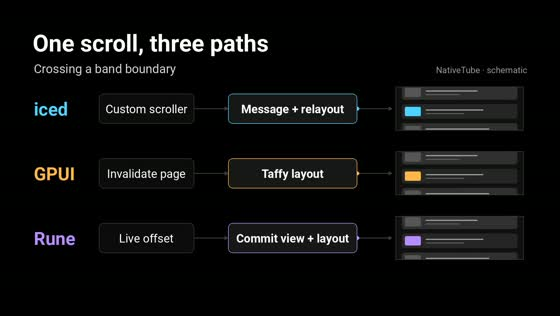
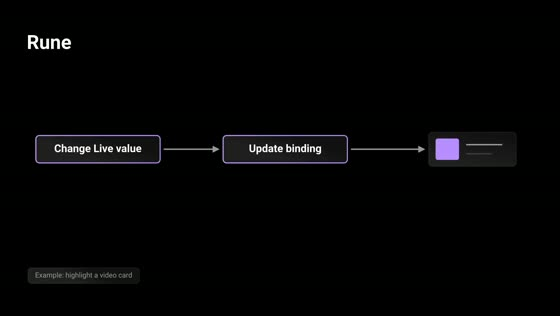
Explain native UI updates with a Manim animation

diff --git a/tools/viz/obsidian.py b/tools/viz/obsidian.py
@@ -322,86 +322,6 @@ def demo():
     return {"feature captures": [str(shot[0].relative_to(data.ROOT)) for shot in shots]}
 
 
-def framework_updates():
-    """Animate a UI update and two portions of an illustrative scroll."""
-    updates = (
-        ("Widget message", "Update, then view"),
-        ("Entity update", "View invalidation"),
-        ("Live value", "Bound property"),
-    )
-    paths = (
-        ("iced", "Custom scroller", "Translate cards", "Message + relayout"),
-        ("gpui", "Invalidate page", "Taffy layout", "Taffy layout"),
-        ("rune", "Live offset", "Translate cards", "Commit view + layout"),
-    )
-    update_time, scroll_time = 4.25, 9.75
-
-    def frame(t, _cache):
-        scrolling = t >= update_time
-        scroll_at = t - update_time
-        crosses_band = scroll_at >= 4.8
-        if scrolling:
-            progress = ease_out((scroll_at - (5.15 if crosses_band else .8)) / 1.9)
-            offset = round(44 + 83 * progress if crosses_band else 44 * progress)
-            heading = "One scroll, three paths"
-            phase = "Crossing a band boundary" if crosses_band else "Scrolling within a band"
-        else:
-            progress = ease_out((t - .55) / 2.2)
-            offset = 0
-            heading = "From state to screen"
-            phase = "Example: highlight a thumbnail"
-        image = Image.new("RGB", SIZE, "black")
-        draw = ImageDraw.Draw(image)
-        draw.text((112, 92), heading, font=face(80, True), fill=WHITE)
-        draw.text((116, 205), phase, font=face(42), fill="#d6d6d6")
-        draw.text((1808, 218), "NativeTube · schematic", font=face(30), fill=SECONDARY, anchor="ra")
-
-        for index, ((app, scroller, within, across), (event, update)) in enumerate(zip(paths, updates, strict=True)):
-            y = 371 + index * 221
-            color = data.APP_COLORS[app]
-            draw.text((116, y), data.NAMES[app], font=face(62, True), fill=color, anchor="lm")
-            for edge, (start, end) in enumerate(((665, 782), (1224, 1344))):
-                draw.line((start, y, end, y), fill=RING, width=3)
-                draw.polygon(((end, y), (end - 12, y - 7), (end - 12, y + 7)), fill=RING)
-                pulse = 2 * progress - edge
-                if 0 < pulse < 1:
-                    draw.circle((start + (end - start) * pulse, y), 6, fill=color)
-
-            entry = scroller if scrolling else event
-            stage = (across if crosses_band else within) if scrolling else update
-            highlight = (app == "gpui" or crosses_band) if scrolling else progress > .5
-            for left, right, text, emphatic in (
-                (339, 665, entry, False),
-                (782, 1224, stage, highlight),
-            ):
-                draw.rounded_rectangle((left, y - 51, right, y + 51), radius=16,
-                                       fill="#171717" if emphatic else "#0c0c0c",
-                                       outline=color if emphatic else RING, width=2)
-                draw.text(((left + right) / 2, y), text, font=face(40, emphatic),
-                          fill=WHITE, anchor="mm")
-
-            # Clip the same moving stack to each viewport. The schematic uses equal motion.
-            tile = Image.new("RGB", (440, 150), "#101010")
-            cards = ImageDraw.Draw(tile)
-            for card in range(5):
-                top = 16 + 65 * card - offset
-                cards.rounded_rectangle((22, top, 417, top + 49), radius=8,
-                                        fill="#252525" if card % 2 == 0 else "#303030")
-                accented = card == (2 if scrolling else 1) and (scrolling or progress > .86)
-                cards.rounded_rectangle((32, top + 9, 86, top + 40), radius=4,
-                                        fill=color if accented else "#565656")
-                cards.line((104, top + 19, 260 + 20 * card, top + 19), fill="#a0a0a0", width=4)
-                cards.line((104, top + 32, 199 + 18 * card, top + 32), fill="#666666", width=3)
-            image.paste(tile, (1356, y - 75))
-            draw.rectangle((1356, y - 75, 1795, y + 74), outline=RING, width=2)
-
-        return image
-
-    encode_frames(data.OUT / "FrameworkUpdates.mp4", update_time + scroll_time, frame)
-    return {"NativeTube scroll paths": ["apps/iced/src/scroller.rs", "apps/gpui/NOTES.md",
-                                       "apps/rune/src/scroller.rs", "apps/rune/src/view.rs"]}
-
-
 def scroll_clip():
     """Keep the recorder's wall-clock timing for the continuous touchpad gesture."""
     WORK.mkdir(parents=True, exist_ok=True)

diff --git a/tools/viz/scenes.py b/tools/viz/scenes.py
@@ -1141,3 +1141,80 @@ class Hiccups(Page):
 
 
 # The runner passes stills.py to Manim separately to keep static and moving output independent.
+
+
+class FrameworkUpdates(Page):
+    """Use the same thumbnail to compare how a small state change reaches the screen."""
+
+    def construct(self):
+        beats = (
+            ("React", MINT, ("Set state", "Run component", "Commit changes")),
+            ("iced", SKY, ("Widget message", "Update state", "Build view")),
+            ("GPUI", GOLD, ("Change entity", "Notify views", "Render view")),
+            ("Rune", LILAC, ("Change Live value", "Update binding")),
+        )
+        self.foot("Example: highlight a video card")
+        self.title("Click a video card")
+        example = self.card(0, .25).scale(1.55)
+        self.play(FadeIn(example), run_time=.25)
+        self.play(example[1].animate.set_fill(MINT, opacity=1), run_time=.35)
+        self.wait(.5)
+        self.clear_stage(run_time=.2)
+
+        for framework, color, steps in beats:
+            self.title(framework)
+            xs = (-5.2, -1.65, 1.75) if len(steps) == 3 else (-5.2, .15)
+            stages = VGroup(*(chip(step, x, .25, 2.95 if len(steps) == 3 else 3.55)
+                              for x, step in zip(xs, steps, strict=True)))
+            card = self.card(5.5, .25)
+            nodes = [*stages, card]
+            links = VGroup(*(right_arrow(a.get_right()[0] + .10, .25, b.get_left()[0] - .10, .25)
+                             for a, b in zip(nodes, nodes[1:])))
+            self.add(*links, *stages, card)
+            for stage, link in zip(stages, links, strict=True):
+                signal = Dot(link.get_start(), radius=.065, color=color)
+                self.add(signal)
+                self.play(MoveAlongPath(signal, link), stage[0].animate.set_stroke(color, width=3), run_time=.4)
+                self.remove(signal)
+            self.play(card[1].animate.set_fill(color, opacity=1), run_time=.45)
+            self.wait(1.5)
+            self.clear_stage(run_time=.25)
+
+        self.title("Now scroll the feed")
+        labels = ("Move cards", "Lay out page", "Move cards")
+        rows = VGroup()
+        moving = []
+        operations = []
+        for index, (app, action) in enumerate(zip(APPS, labels, strict=True)):
+            y = 1.62 - 1.65 * index
+            color = COLOR[app]
+            cards = VGroup(self.card(2.25, y, color), self.card(5.35, y))
+            operation = chip(action, -2.0, y, 2.8, color)
+            rows.add(label(NAME[app], -6.65, y, VALUE, color, bold=True), operation,
+                     right_arrow(-.48, y, .87, y), cards)
+            moving.append(cards)
+            operations.append(operation)
+        self.play(FadeIn(rows), run_time=.4)
+        self.play(*(cards.animate.shift(.44 * UP) for cards in moving), run_time=.9)
+        self.wait(1)
+        self.title("When the card group changes")
+        self.play(FadeOut(operations[0]), FadeOut(operations[2]), run_time=.2)
+        self.play(
+            FadeIn(chip("Rebuild group", -2.0, 1.62, 2.8, SKY)),
+            FadeIn(chip("Commit new view", -2.0, -1.68, 2.8, LILAC)),
+            moving[0][1][1].animate.set_fill(SKY, opacity=1),
+            moving[2][1][1].animate.set_fill(LILAC, opacity=1),
+            run_time=.4,
+        )
+        self.foot("NativeTube's scroll paths")
+        self.wait(1.5)
+
+    @staticmethod
+    def card(x, y, accent=RING):
+        return VGroup(
+            box(x, y, 2.5, .97),
+            RoundedRectangle(corner_radius=.06, width=.67, height=.61, stroke_width=0,
+                             fill_color=accent, fill_opacity=1).move_to(point(x - .72, y)),
+            line(x - .18, y + .13, x + .85, y + .13, MUTED, 4),
+            line(x - .18, y - .13, x + .54, y - .13, RING, 4),
+        )

diff --git a/tools/viz/render.py b/tools/viz/render.py
@@ -30,6 +30,7 @@ EXPLAINERS = {
     "ScrollCost": (6, 9, 26, 37),
     "Memory": (5, 13, 23, 41),
     "Hiccups": (6, 10, 28),
+    "FrameworkUpdates": (),
 }
 STILLS = (
     "FramePathStill", "EGLStill", "InstructionsStill", "PerCoreStill",
@@ -123,6 +124,8 @@ def verify(recordings=None, *, wanted=None):
     if recordings and "SideBySideFly" in recordings:
         names.append("SideBySideFly")
     for name in PUBLICATION_VIDEOS:
+        if name in EXPLAINERS:
+            continue
         if (data.OUT / f"{name}.mp4").is_file() or wanted is not None and name in wanted:
             names.append(name)
     for name in names:
@@ -373,6 +376,10 @@ def main():
         scene_set("stills", stills, "1600,900", still=True, fly=fly)
     tour_receipts = tours.main(fly, wanted)
     references = source_map(fly, tour_receipts)
+    references["FrameworkUpdates"] = {
+        "NativeTube update and scroll paths": ["apps/iced/src/scroller.rs", "apps/gpui/NOTES.md",
+                                              "apps/rune/src/scroller.rs", "apps/rune/src/view.rs"],
+    }
     if "Cover" in wanted:
         obsidian.cover()
     if (stale := data.OUT / "Cover.png").is_file():
@@ -380,7 +387,6 @@ def main():
     existing = data.read(".cache/viz/out/sources.json") if (data.OUT / "sources.json").is_file() else {}
     for name, build in {
         "Demo": obsidian.demo,
-        "FrameworkUpdates": obsidian.framework_updates,
         "FirstFrameRealTime": tours.first_frame_clip,
         "ScrollRealTime": obsidian.scroll_clip,
     }.items():

diff --git a/tools/viz/audit.py b/tools/viz/audit.py
@@ -54,7 +54,7 @@ def create_sheets(video, destination):
     print(f"{video.stem}: {count} sampled frames", flush=True)
 
 
-EXPLAINERS = ("FramePath", "FirstFrame", "ScrollCost", "Memory", "Hiccups")
+EXPLAINERS = ("FramePath", "FirstFrame", "ScrollCost", "Memory", "Hiccups", "FrameworkUpdates")
 # Background points along the outer margin. The grid has a narrower border than the cards.
 MARGIN_POINTS = ((20, 20), (1900, 20), (20, 1060), (1900, 1060), (960, 12), (960, 1068), (12, 540), (1908, 540))
 GRID_POINTS = ((8, 8), (1911, 8), (8, 1071), (1911, 1071), (8, 300), (1911, 820))

diff --git a/docs/blog/x-article.md b/docs/blog/x-article.md
@@ -22,13 +22,15 @@ All three use the same Rust core for networking, image caching, scroll physics, 
 
 ### How each framework updates the UI
 
-[MEDIA: .cache/viz/out/FrameworkUpdates.mp4 — How state reaches the screen in each framework, followed by an animated diagram of what changes during a NativeTube scroll.]
+[MEDIA: .cache/viz/out/FrameworkUpdates.mp4 — One card changes color. Follow that update through React, iced, GPUI, and Rune, then see which parts of NativeTube update during a scroll.]
 
-**iced** follows an Elm-style loop. Widgets emit messages, `update(&mut self, Message)` changes state and can return a task, and `view` describes the UI. The mutable borrow keeps updates from re-entering. In NativeTube, a custom scroller uses `with_translation` to shift already-laid-out children. Once the scroll offset crosses a threshold, the scroller sends a message to rebuild the band of mounted cards. Floating controls need more explicit state and message wiring.
+Say you click a video card and it lights up. The app records which card is selected, then draws that card with a highlight. On the web, a React state change queues a render. React calls your component to describe the next UI, then applies the changes to the browser’s document. [React’s render and commit guide](https://react.dev/learn/render-and-commit)
 
-**GPUI** keeps state in entities and renders views from that state. It checks entity borrows at runtime, so a callback that re-enters an entity update can panic. GPUI's `anchored()` and `deferred()` primitives make it easy to position and layer floating UI. In our client, scrolling still invalidates the page view and runs Taffy layout even with the page split into five cached views.
+- **iced** gives the click a name, like `SelectVideo(id)`. The app’s `update` function handles the message and changes the state. Then `view` describes the screen from that state. This feels like React with a reducer. In Rust, the mutable borrow in `update` keeps it from re-entering. Floating controls take more explicit state and message wiring.
+- **GPUI** keeps state in entities. A handler can update the relevant entity and notify views that depend on it, so GPUI knows which views need to render again. It checks borrows at runtime, so re-entering an entity update can panic. Its `anchored()` and `deferred()` primitives make it easier to position and layer floating controls.
+- **Rune** can wire a `Live` value directly to a visual property such as position or color. Changing the value updates that property without asking the app to describe the whole view again. Structural changes, like adding cards, still go through a view and layout update.
 
-**Rune** lets a reactive `Live` value drive a property directly. In our scroller, `Tx::live_only()` shifts the visible items between virtualization boundaries. The app commits a new view and layout when it needs a different set of items. That kept the scroll path short, though integrating Wayland required extra work and the pinned version hit a release assertion when combining live text with wrapping or truncation.
+All three NativeTube clients use the same scroll animator and build the cards they need around the visible area. While that group stays the same, iced’s custom scroller draws the cards at a new offset and Rune updates its live offset. Both update the view when they need a different group of cards. In this GPUI build, each scroll tick marks the page view for another render and Taffy recalculates its layout. The top bar and other cached views can still be reused.
 
 ---
 

diff --git a/tools/viz/README.md b/tools/viz/README.md
@@ -42,12 +42,12 @@ Everything renders on pure black. Glass (#121212 with sheen and an 8 % rim) is l
 The side-by-sides use archived footage. A 2 × 2 grid shows the recordings, cut per step and aligned on each tile's own command. Native tiles have the app name, a running timer for timed steps, and the step label. The timer stops and the tile flashes when the app reaches its mark. The open step stops at the first visible video frame. The live-network YouTube web tile plays alongside the native race with a step label.
 
 The article uses four short exports. `Demo.mp4` has one shot per feature.
-`FrameworkUpdates.mp4` diagrams the three UI update paths and how scrolling works within and across card bands.
+`FrameworkUpdates.mp4` uses Manim to compare a React update with the three native paths and show how the NativeTube clients scroll a group of cards.
 `FirstFrameRealTime.mp4` shows one archived open per app at normal speed and labels the footage as predating the matched benchmark.
 `ScrollRealTime.mp4` uses a continuous 60 fps recording from a private Sway output. Its source
 and unretimed trim are in `.cache/viz/scroll-capture/`. The [matched benchmark](../../docs/media/fair.md)
-provides the measured comparisons, including the separate wheel workload. The Manim explainers
-use the earlier measurement series and belong with its methods.
+provides the measured comparisons, including the separate wheel workload. The other Manim
+explainers use the earlier measurement series and belong with its methods.
 
 The renderer also writes `cover.png` (1600×900), `posters/<video>.png`,
 `contact/<video>.png` (six frames) and `contact/<video>-1fps-NN.jpg` (one frame per second).
